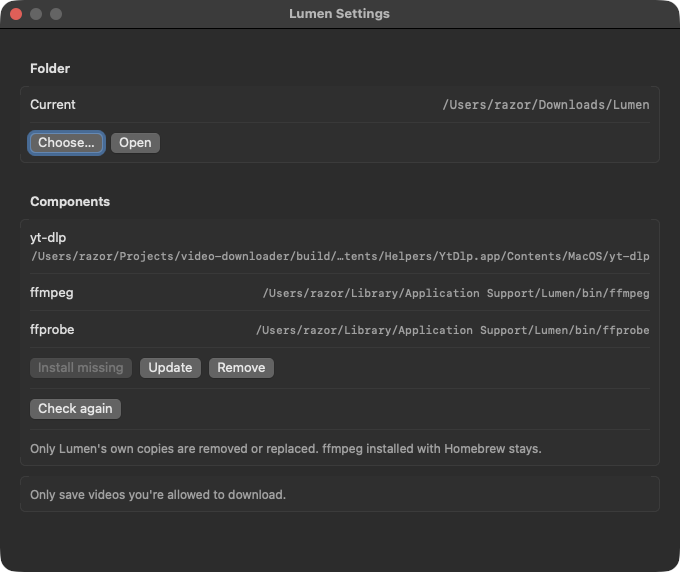
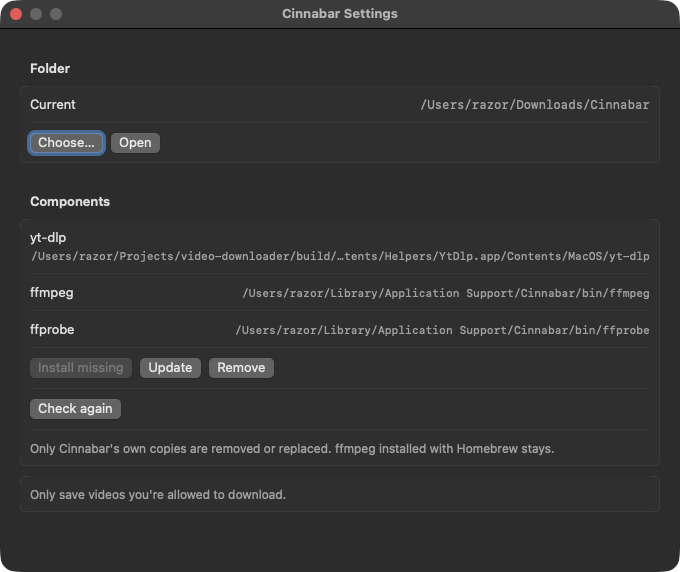
Rename the app to Cinnabar

diff --git a/Sources/CinnabarCore/Engine.swift b/Sources/CinnabarCore/Engine.swift
@@ -8,9 +8,9 @@ private let helperInfoPlist = """
 <plist version="1.0">
 <dict>
 <key>CFBundleExecutable</key><string>yt-dlp</string>
-<key>CFBundleIdentifier</key><string>app.lumen.downloader.ytdlp</string>
-<key>CFBundleName</key><string>Lumen</string>
-<key>CFBundleDisplayName</key><string>Lumen</string>
+<key>CFBundleIdentifier</key><string>app.cinnabar.downloader.ytdlp</string>
+<key>CFBundleName</key><string>Cinnabar</string>
+<key>CFBundleDisplayName</key><string>Cinnabar</string>
 <key>CFBundlePackageType</key><string>APPL</string>
 <key>CFBundleShortVersionString</key><string>1.0</string>
 <key>CFBundleVersion</key><string>1</string>
@@ -45,7 +45,7 @@ public struct Engine: Sendable {
     public init() {
         let base = FileManager.default.urls(for: .applicationSupportDirectory, in: .userDomainMask).first
             ?? URL(fileURLWithPath: NSHomeDirectory()).appending(path: "Library/Application Support")
-        supportRoot = base.appending(path: "Lumen")
+        supportRoot = base.appending(path: "Cinnabar")
     }
 
     public var hasManagedComponents: Bool {
@@ -311,7 +311,7 @@ public struct Engine: Sendable {
 
     private func installFFmpegWithBrew(_ continuation: AsyncThrowingStream<String, Error>.Continuation) async throws {
         guard let brew = brewExecutable() else {
-            throw EngineFailure(message: String(localized: "Couldn't download ffmpeg. Install it with brew install ffmpeg and open Lumen again."))
+            throw EngineFailure(message: String(localized: "Couldn't download ffmpeg. Install it with brew install ffmpeg and open Cinnabar again."))
         }
         continuation.yield(String(localized: "Trying Homebrew — this can take a few minutes…"))
         let lines = LineProcess().stream(
@@ -337,7 +337,7 @@ public struct Engine: Sendable {
         guard let http = response as? HTTPURLResponse, (200..<300).contains(http.statusCode) else {
             throw EngineFailure(message: String(format: String(localized: "Couldn't download %@."), name))
         }
-        let tempRoot = FileManager.default.temporaryDirectory.appending(path: "lumen-\(UUID().uuidString)")
+        let tempRoot = FileManager.default.temporaryDirectory.appending(path: "cinnabar-\(UUID().uuidString)")
         try FileManager.default.createDirectory(at: tempRoot, withIntermediateDirectories: true)
         defer { try? FileManager.default.removeItem(at: tempRoot) }
 
@@ -416,9 +416,9 @@ public struct Engine: Sendable {
             if FileManager.default.fileExists(atPath: destinationRuntime.path) {
                 try FileManager.default.removeItem(at: destinationRuntime)
             }
-            let signed = FileManager.default.temporaryDirectory.appending(path: "lumen-ytdlp-\(UUID().uuidString)")
+            let signed = FileManager.default.temporaryDirectory.appending(path: "cinnabar-ytdlp-\(UUID().uuidString)")
             try FileManager.default.copyItem(at: binary, to: signed)
-            try bless(signed, identifier: "app.lumen.downloader.ytdlp")
+            try bless(signed, identifier: "app.cinnabar.downloader.ytdlp")
             try FileManager.default.copyItem(at: signed, to: destination)
             try? FileManager.default.removeItem(at: signed)
             try FileManager.default.copyItem(at: runtime, to: destinationRuntime)

diff --git a/Sources/Cinnabar/AppModel.swift b/Sources/Cinnabar/AppModel.swift
@@ -1,6 +1,6 @@
 import AppKit
 import Foundation
-import LumenCore
+import CinnabarCore
 import Observation
 import UserNotifications
 
@@ -102,12 +102,12 @@ final class AppModel {
         let engine = Engine()
         try? engine.prepare()
         let folder: URL
-        if let stored = UserDefaults.standard.string(forKey: "lumen.destination"), !stored.isEmpty {
+        if let stored = UserDefaults.standard.string(forKey: "cinnabar.destination"), !stored.isEmpty {
             folder = URL(fileURLWithPath: stored)
         } else {
             let downloads = FileManager.default.urls(for: .downloadsDirectory, in: .userDomainMask).first
                 ?? URL(fileURLWithPath: NSHomeDirectory()).appending(path: "Downloads")
-            folder = downloads.appending(path: "Lumen")
+            folder = downloads.appending(path: "Cinnabar")
         }
         self.engine = engine
         destination = folder
@@ -357,7 +357,7 @@ final class AppModel {
         guard !isInstalling, activeCount == 0 else { return }
         let alert = NSAlert()
         alert.messageText = String(localized: "Download the components again?")
-        alert.informativeText = String(localized: "Lumen's copies of yt-dlp and ffmpeg will be replaced with fresh ones. ffmpeg installed with Homebrew stays.")
+        alert.informativeText = String(localized: "Cinnabar's copies of yt-dlp and ffmpeg will be replaced with fresh ones. ffmpeg installed with Homebrew stays.")
         alert.addButton(withTitle: String(localized: "Download"))
         alert.addButton(withTitle: String(localized: "Cancel"))
         guard alert.runModal() == .alertFirstButtonReturn else { return }
@@ -384,7 +384,7 @@ final class AppModel {
         guard !isInstalling, activeCount == 0 else { return }
         let alert = NSAlert()
         alert.messageText = String(localized: "Remove the components?")
-        alert.informativeText = String(localized: "Lumen's copies of yt-dlp and ffmpeg will be deleted. ffmpeg installed with Homebrew stays.")
+        alert.informativeText = String(localized: "Cinnabar's copies of yt-dlp and ffmpeg will be deleted. ffmpeg installed with Homebrew stays.")
         alert.alertStyle = .warning
         alert.addButton(withTitle: String(localized: "Remove"))
         alert.addButton(withTitle: String(localized: "Cancel"))
@@ -401,7 +401,7 @@ final class AppModel {
 
     private func setDestination(_ url: URL) {
         destination = url
-        UserDefaults.standard.set(url.path, forKey: "lumen.destination")
+        UserDefaults.standard.set(url.path, forKey: "cinnabar.destination")
         try? FileManager.default.createDirectory(at: url, withIntermediateDirectories: true)
     }
 
@@ -662,7 +662,7 @@ final class AppModel {
         return number?.int64Value
     }
 
-    private static let hiddenLibraryKey = "lumen.hiddenLibrary"
+    private static let hiddenLibraryKey = "cinnabar.hiddenLibrary"
 
     private func loadLibrary() {
         if let data = try? Data(contentsOf: engine.libraryFile) {

diff --git a/Package.swift b/Package.swift
@@ -2,28 +2,28 @@
 import PackageDescription
 
 let package = Package(
-    name: "Lumen",
+    name: "Cinnabar",
     platforms: [.macOS(.v14)],
     products: [
-        .executable(name: "Lumen", targets: ["Lumen"])
+        .executable(name: "Cinnabar", targets: ["Cinnabar"])
     ],
     targets: [
         .target(
-            name: "LumenCore",
-            path: "Sources/LumenCore"
+            name: "CinnabarCore",
+            path: "Sources/CinnabarCore"
         ),
         .executableTarget(
-            name: "Lumen",
-            dependencies: ["LumenCore"],
-            path: "Sources/Lumen",
+            name: "Cinnabar",
+            dependencies: ["CinnabarCore"],
+            path: "Sources/Cinnabar",
             swiftSettings: [
                 .swiftLanguageMode(.v6)
             ]
         ),
         .testTarget(
-            name: "LumenCoreTests",
-            dependencies: ["LumenCore"],
-            path: "Tests/LumenCoreTests",
+            name: "CinnabarCoreTests",
+            dependencies: ["CinnabarCore"],
+            path: "Tests/CinnabarCoreTests",
             swiftSettings: [
[1 lines of base64/hex data omitted]
             ]

diff --git a/Sources/Cinnabar/Views/RootView.swift b/Sources/Cinnabar/Views/RootView.swift
@@ -86,7 +86,7 @@ private struct Sidebar: View {
                         .foregroundStyle(.white)
                 }
                 VStack(alignment: .leading, spacing: 1) {
-                    Text("Lumen")
+                    Text("Cinnabar")
                         .font(.system(size: 15, weight: .semibold))
                     Text("Downloads")
                         .font(.system(size: 11, weight: .medium))
@@ -141,7 +141,7 @@ private struct Sidebar: View {
 
     private var versionText: String {
         let version = Bundle.main.object(forInfoDictionaryKey: "CFBundleShortVersionString") as? String ?? "1.0"
-        return "Lumen \(version)"
+        return "Cinnabar \(version)"
     }
 }
 

diff --git a/Sources/Cinnabar/Views/Components.swift b/Sources/Cinnabar/Views/Components.swift
@@ -83,7 +83,7 @@ struct SetupCard: View {
                 VStack(alignment: .leading, spacing: 4) {
                     Text("Prepare the download")
                         .font(.system(size: 18, weight: .semibold))
-                    Text("Lumen downloads the video with yt-dlp and builds the file with ffmpeg. Both tools are free and stay inside the app folder.")
+                    Text("Cinnabar downloads the video with yt-dlp and builds the file with ffmpeg. Both tools are free and stay inside the app folder.")
                         .font(.system(size: 13))
                         .foregroundStyle(.secondary)
                         .fixedSize(horizontal: false, vertical: true)

diff --git a/Sources/Cinnabar/Views/SettingsView.swift b/Sources/Cinnabar/Views/SettingsView.swift
@@ -36,7 +36,7 @@ struct SettingsView: View {
                 Button("Check again", action: model.refreshEngine)
                     .disabled(model.isInstalling)
 
-                Text("Only Lumen's own copies are removed or replaced. ffmpeg installed with Homebrew stays.")
+                Text("Only Cinnabar's own copies are removed or replaced. ffmpeg installed with Homebrew stays.")
                     .font(.system(size: 12))
                     .foregroundStyle(.secondary)
                     .fixedSize(horizontal: false, vertical: true)

diff --git a/Sources/Cinnabar/Views/ComposeView.swift b/Sources/Cinnabar/Views/ComposeView.swift
@@ -15,7 +15,7 @@ struct ComposeView: View {
                     Text("Save video")
                         .font(.system(size: 32, weight: .semibold))
                         .tracking(-0.6)
-                    Text("Paste a link and Lumen will download it in the quality you choose.")
+                    Text("Paste a link and Cinnabar will download it in the quality you choose.")
                         .font(.system(size: 14))
                         .foregroundStyle(.secondary)
                 }

diff --git a/Tests/CinnabarCoreTests/CoreTests.swift b/Tests/CinnabarCoreTests/CoreTests.swift
@@ -1,6 +1,6 @@
 import Foundation
 import Testing
-@testable import LumenCore
+@testable import CinnabarCore
 
 @Test func acceptsWatchShortsAndShareText() {
     #expect(MediaLink.parse("https://www.youtube.com/watch?v=dQw4w9WgXcQ") != nil)

diff --git a/Sources/Cinnabar/CinnabarApp.swift b/Sources/Cinnabar/CinnabarApp.swift
@@ -2,7 +2,7 @@ import AppKit
 import SwiftUI
 
 @main
-struct LumenApp: App {
+struct CinnabarApp: App {
     @NSApplicationDelegateAdaptor(DockDelegate.self) private var dock
 
     var body: some Scene {

diff --git a/Sources/Cinnabar/Theme.swift b/Sources/Cinnabar/Theme.swift
@@ -1,5 +1,5 @@
 import AppKit
-import LumenCore
+import CinnabarCore
 import SwiftUI
 
 enum Theme {
